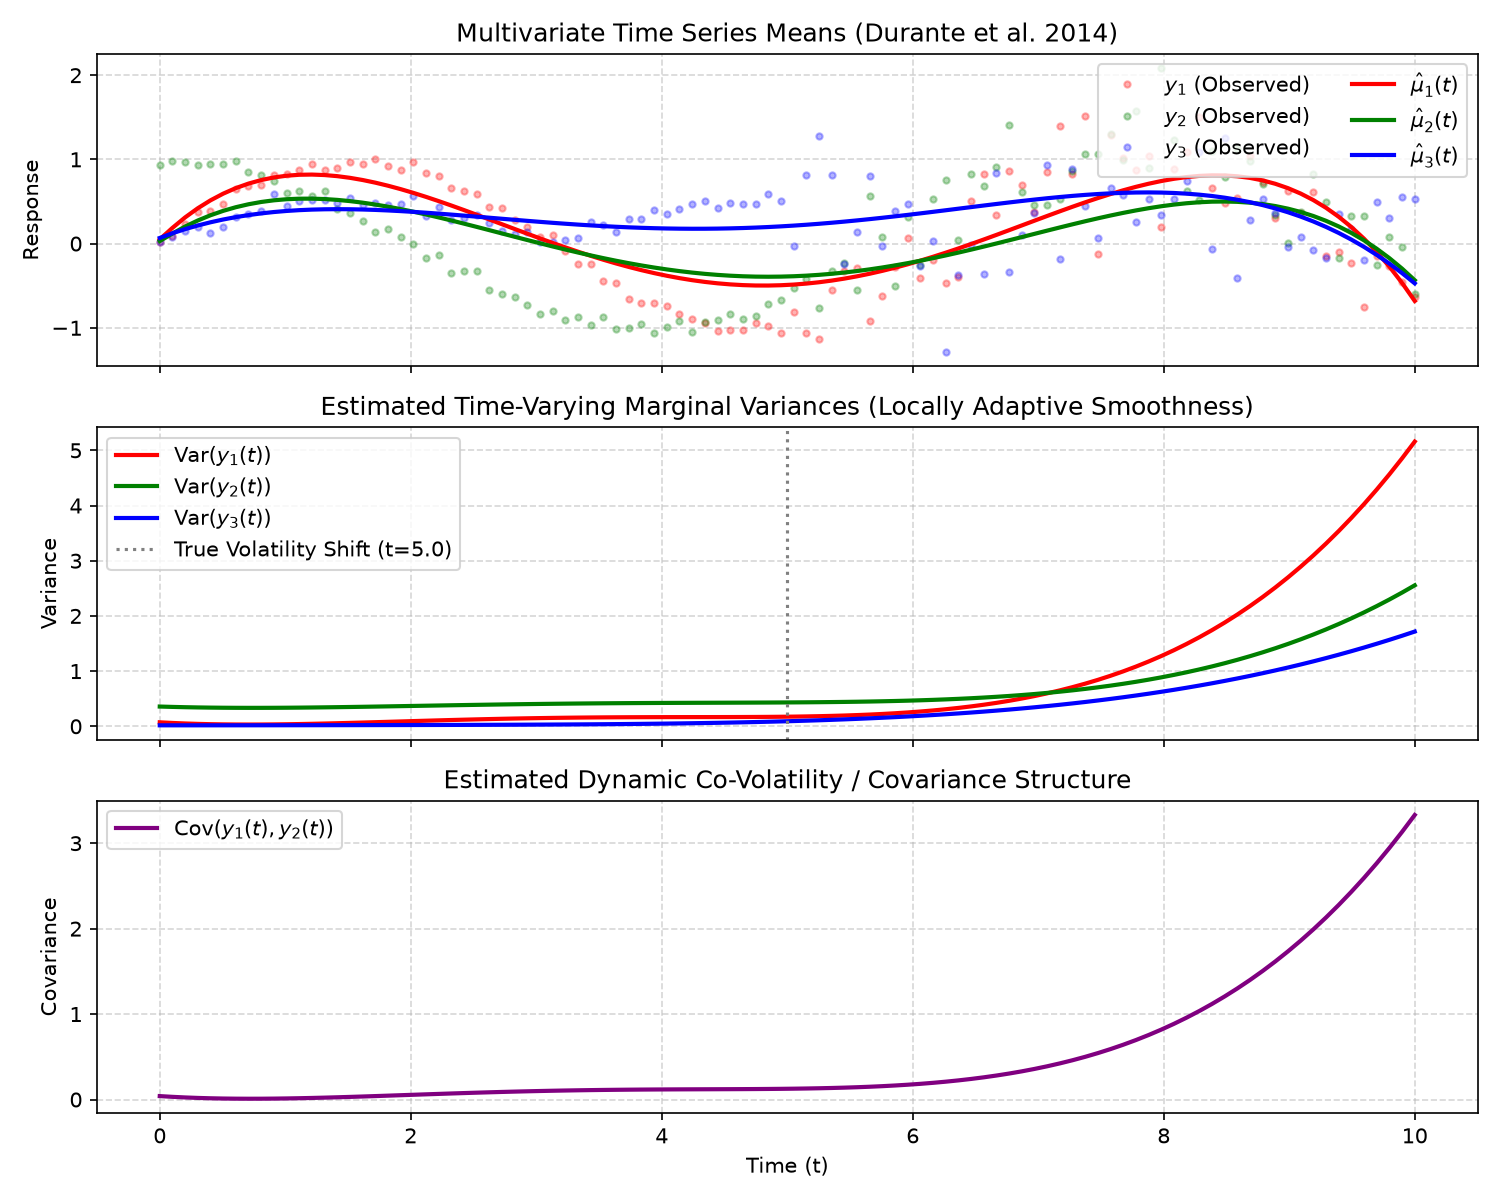
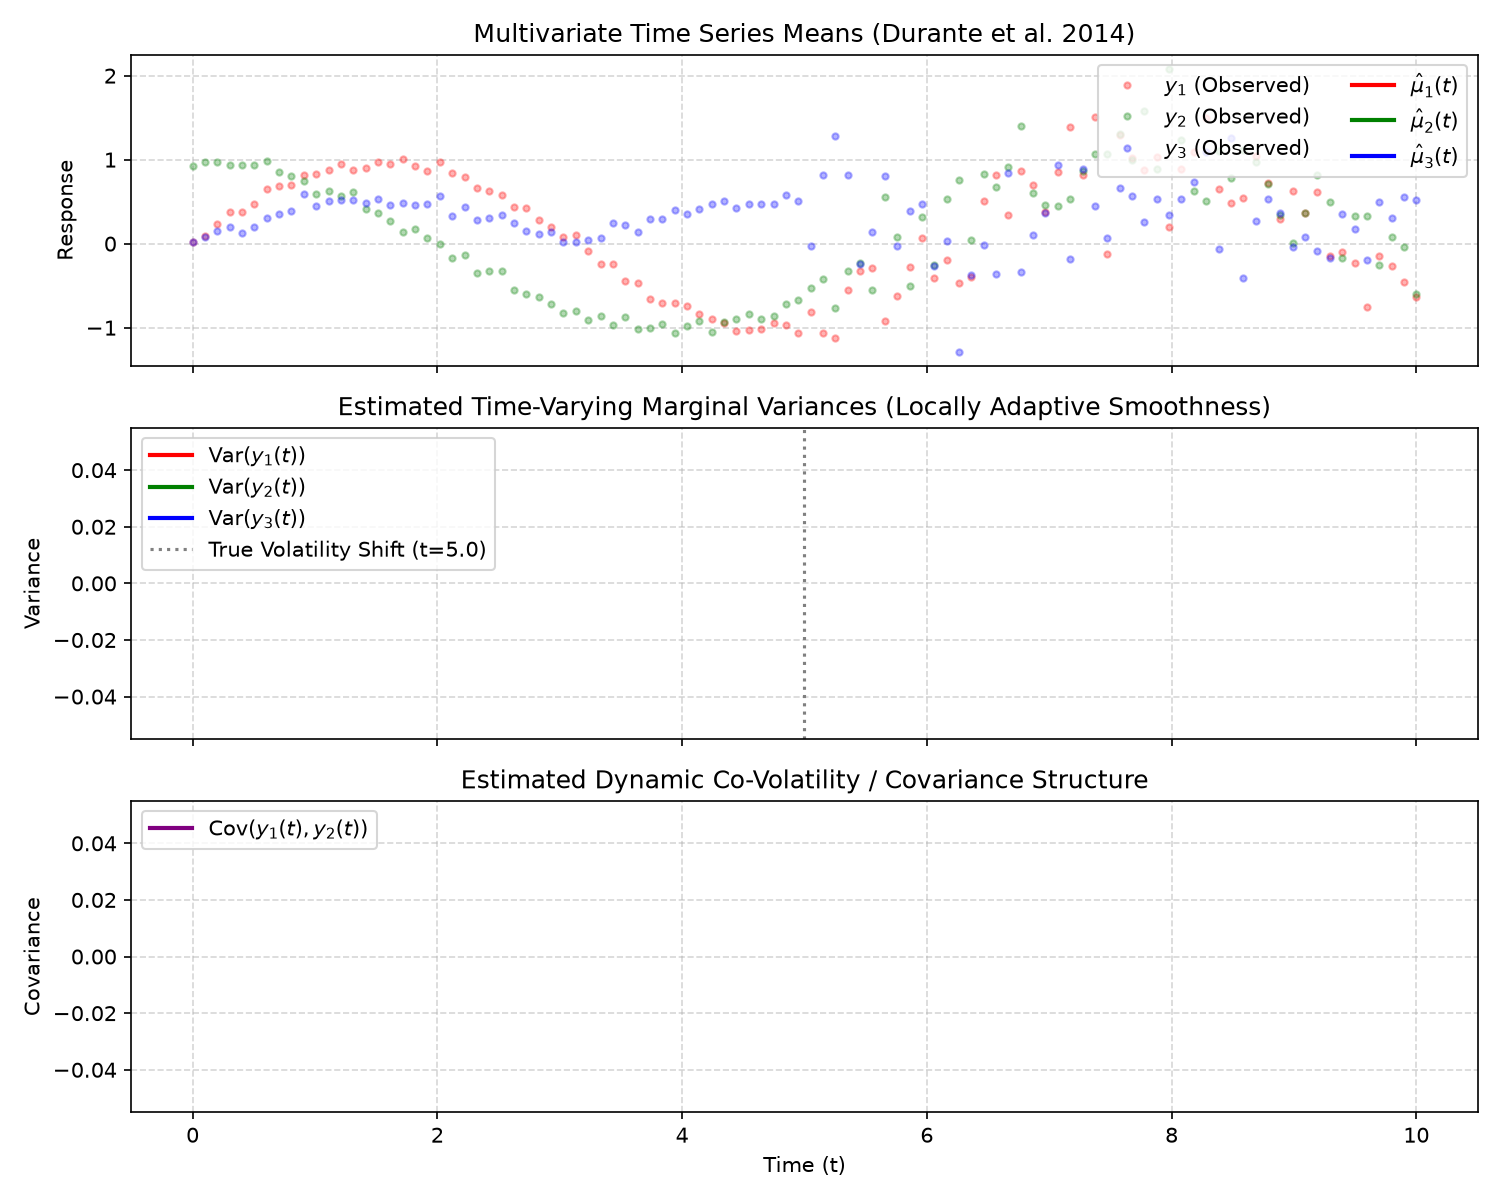
Fix collinearity

diff --git a/python/tests/test_multivariate.py b/python/tests/test_multivariate.py
@@ -5,27 +5,27 @@ from lafp import LAFPFactorModel, MultivariateLAFPFactorModel
 def test_multivariate_lafp_model_basic():
     """Test basic multivariate LAFP fitting with MultivariateLAFPFactorModel."""
     np.random.seed(42)
-    n_t = 30
+    n_t = 50
     n_p = 3
-    tobs = np.linspace(0.0, 5.0, n_t)
+    tobs = np.linspace(0.0, 10.0, n_t)
     
-    # Generate 3-variate time series
+    # Generate 3-variate linearly independent time series
     y = np.column_stack([
-        np.sin(tobs) + 0.05 * np.random.randn(n_t),
-        np.cos(tobs) + 0.05 * np.random.randn(n_t),
-        np.sin(tobs) + np.cos(tobs) + 0.05 * np.random.randn(n_t),
+        np.sin(tobs) + 0.1 * np.random.randn(n_t),
+        np.cos(0.8 * tobs) + 0.1 * np.random.randn(n_t),
+        0.5 * np.abs(np.sin(tobs)) + 0.1 * np.random.randn(n_t),
     ])
 
     model = MultivariateLAFPFactorModel(
         n_factors=2,
         n_dict=2,
-        n_iter=50,
+        n_iter=500,
     )
     model.fit(y, tobs)
 
     assert model.is_fitted_ is True
-    # 50 iterations thinned by 5 yields 10 saved samples
-    n_samps = 10
+    # 500 iterations thinned by 5 yields 100 saved samples
+    n_samps = 100
     assert model.mu_.shape == (n_samps, n_t, n_p)
     assert model.Sigma_.shape == (n_samps, n_t, n_p, n_p)
     assert model.yhat_.shape == (n_samps, n_t, n_p)
@@ -41,21 +41,21 @@ def test_multivariate_lafp_model_basic():
 def test_lafp_factor_model_auto_dispatch():
     """Test LAFPFactorModel auto-dispatching 2D data to multivariate LAFP engine."""
     np.random.seed(123)
-    n_t = 25
-    tobs = np.linspace(0.0, 4.0, n_t)
+    n_t = 50
+    tobs = np.linspace(0.0, 10.0, n_t)
     y_2d = np.column_stack([
-        np.sin(tobs),
-        np.cos(tobs),
+        np.sin(tobs) + 0.1 * np.random.randn(n_t),
+        np.cos(0.8 * tobs) + 0.1 * np.random.randn(n_t),
     ])
 
-    model = LAFPFactorModel(n_iter=50, n_factors=2, n_dict=2)
+    model = LAFPFactorModel(n_iter=500, n_factors=2, n_dict=2)
     model.fit(y_2d, tobs)
 
     assert model.is_fitted_ is True
     assert model.mu_ is not None
     assert model.Sigma_ is not None
-    assert model.mu_.shape == (10, n_t, 2)
-    assert model.Sigma_.shape == (10, n_t, 2, 2)
+    assert model.mu_.shape == (100, n_t, 2)
+    assert model.Sigma_.shape == (100, n_t, 2, 2)
     assert not np.isnan(model.mu_).any()
     assert not np.isnan(model.Sigma_).any()
 

diff --git a/python/lafp/model.py b/python/lafp/model.py
@@ -111,17 +111,22 @@ class MultivariateLAFPFactorModel:
         if n_samps < 1:
             raise ValueError(f"n_iter must be at least 5 (got {self.n_iter}).")
 
+        def _to_pair(val):
+            if isinstance(val, (int, float)):
+                return (float(val), float(val))
+            return tuple(val)
+
         # GSL Inputs
         gsl_y = b.numpy_to_gsl_matrix(y_arr)
         gsl_tobs = b.numpy_to_gsl_vector(tobs_arr)
 
         gsl_sig_prior = b.numpy_to_gsl_vector([self.sig_mu, self.sig_alpha])
-        gsl_eps_prior = b.numpy_to_gsl_vector(self.prior_eps)
-        gsl_ksi_prior = b.numpy_to_gsl_vector(self.prior_ksi)
-        gsl_a_prior = b.numpy_to_gsl_vector(self.prior_a)
-        gsl_psi_prior = b.numpy_to_gsl_vector(self.prior_psi)
-        gsl_b_prior = b.numpy_to_gsl_vector(self.prior_b)
-        gsl_aa_prior = b.numpy_to_gsl_vector(self.prior_aa)
+        gsl_eps_prior = b.numpy_to_gsl_vector(_to_pair(self.prior_eps))
+        gsl_ksi_prior = b.numpy_to_gsl_vector(_to_pair(self.prior_ksi))
+        gsl_a_prior = b.numpy_to_gsl_vector(_to_pair(self.prior_a))
+        gsl_psi_prior = b.numpy_to_gsl_vector(_to_pair(self.prior_psi))
+        gsl_b_prior = b.numpy_to_gsl_vector(_to_pair(self.prior_b))
+        gsl_aa_prior = b.numpy_to_gsl_vector(_to_pair(self.prior_aa))
 
         # Output marrays
         marray_ksi = lib.marray3d_alloc(n_samps, n_t, self.n_factors * self.n_dict)
@@ -251,6 +256,8 @@ class LAFPFactorModel:
                 n_iter=self.n_iter,
                 sig_mu=self.sig_mu,
                 sig_alpha=self.sig_alpha,
+                prior_a=self.prior_a,
+                prior_b=self.prior_b,
             )
             self._mv_model.fit(y_arr, tobs)
             self.mu_ = self._mv_model.mu_

diff --git a/src/KalmanFilter2.c b/src/KalmanFilter2.c
@@ -275,6 +275,9 @@ int Kalman2_operations(Kalman2 *self){
 		if(DDOT_MM(ZPt_Mpm,Zt_Mmp,ZPZ_Mpp))									GMERR(-211);
 		//if(M_ADD(ZPZ_Mpp,HH))												GMERR(-221);
 		if(gsl_matrix_add(self->ZPZ_Mpp,HH))								GMERR(-221);
+		for(int di=0; di<self->ZPZ_Mpp->size1; di++) {
+			gsl_matrix_set(self->ZPZ_Mpp, di, di, gsl_matrix_get(self->ZPZ_Mpp, di, di) + 1e-9);
+		}
 		
 		//Finv[t] = np.linalg.inv(F)
 		if(inv_LU(self->ZPZ_Mpp,self->Finvt_Mpp))							GMERR(-231);

diff --git a/python/lafp/_bindings.py b/python/lafp/_bindings.py
@@ -128,6 +128,9 @@ class LAFPBindings:
         self.lib.NGPlaf2_init.restype = ctypes.c_int
         self.lib.NGPlaf2_init.argtypes = [ctypes.c_void_p]
 
+        self.lib.NGPlaf2_reset.restype = ctypes.c_int
+        self.lib.NGPlaf2_reset.argtypes = [ctypes.c_void_p]
+
         self.lib.NGPlaf2_free.restype = ctypes.c_int
         self.lib.NGPlaf2_free.argtypes = [ctypes.c_void_p]
 

diff --git a/src/NGPlaf2.c b/src/NGPlaf2.c
@@ -590,6 +590,8 @@ int NGPlaf2_construct(NGPlaf2 *self,gsl_vector *tobs,gsl_matrix *y,int NK,int NL
 	self->mu_out = mu_out;
 	self->Sigma_out = Sigma_out;
 
+	if(NGPlaf2_reset(self)) GMERR(-191);
+
 	return(0);
 GMERRH("NGPlaf2_construct",1);
 }
